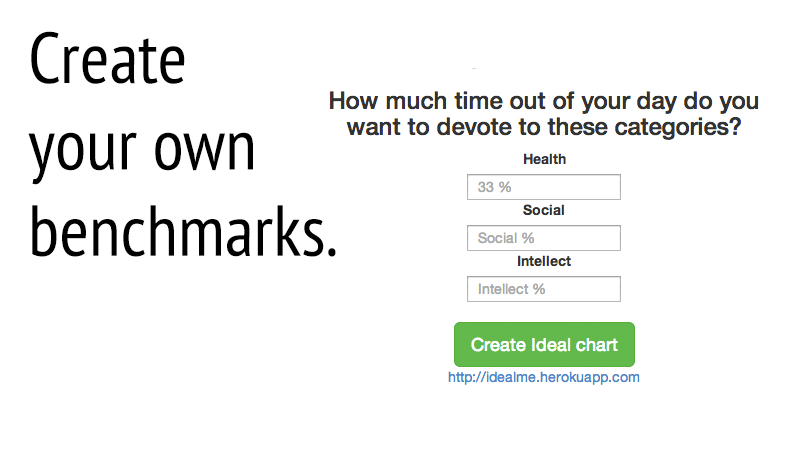
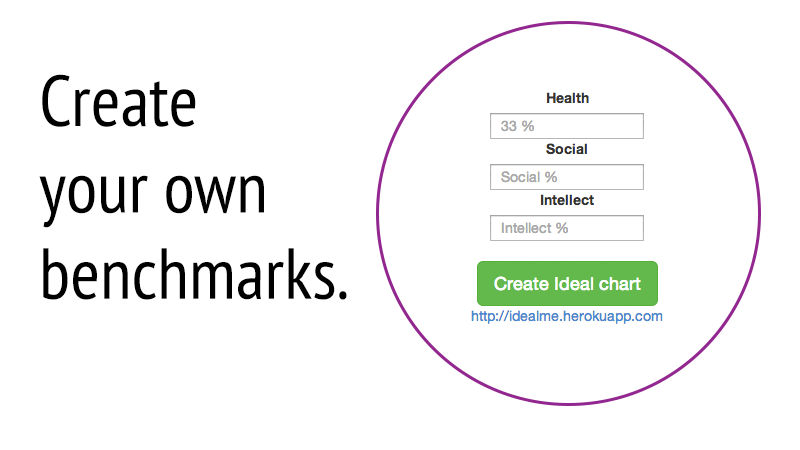
carousel done

diff --git a/app/assets/stylesheets/site.css b/app/assets/stylesheets/site.css
@@ -1,0 +1,9 @@
+#car {
+margin:auto;
+}
+
+carousel-inner > .item > img, 
+.carousel-inner > .item > a > img{
+width: 100%; /* use this, or not */
+margin: auto;
+}
